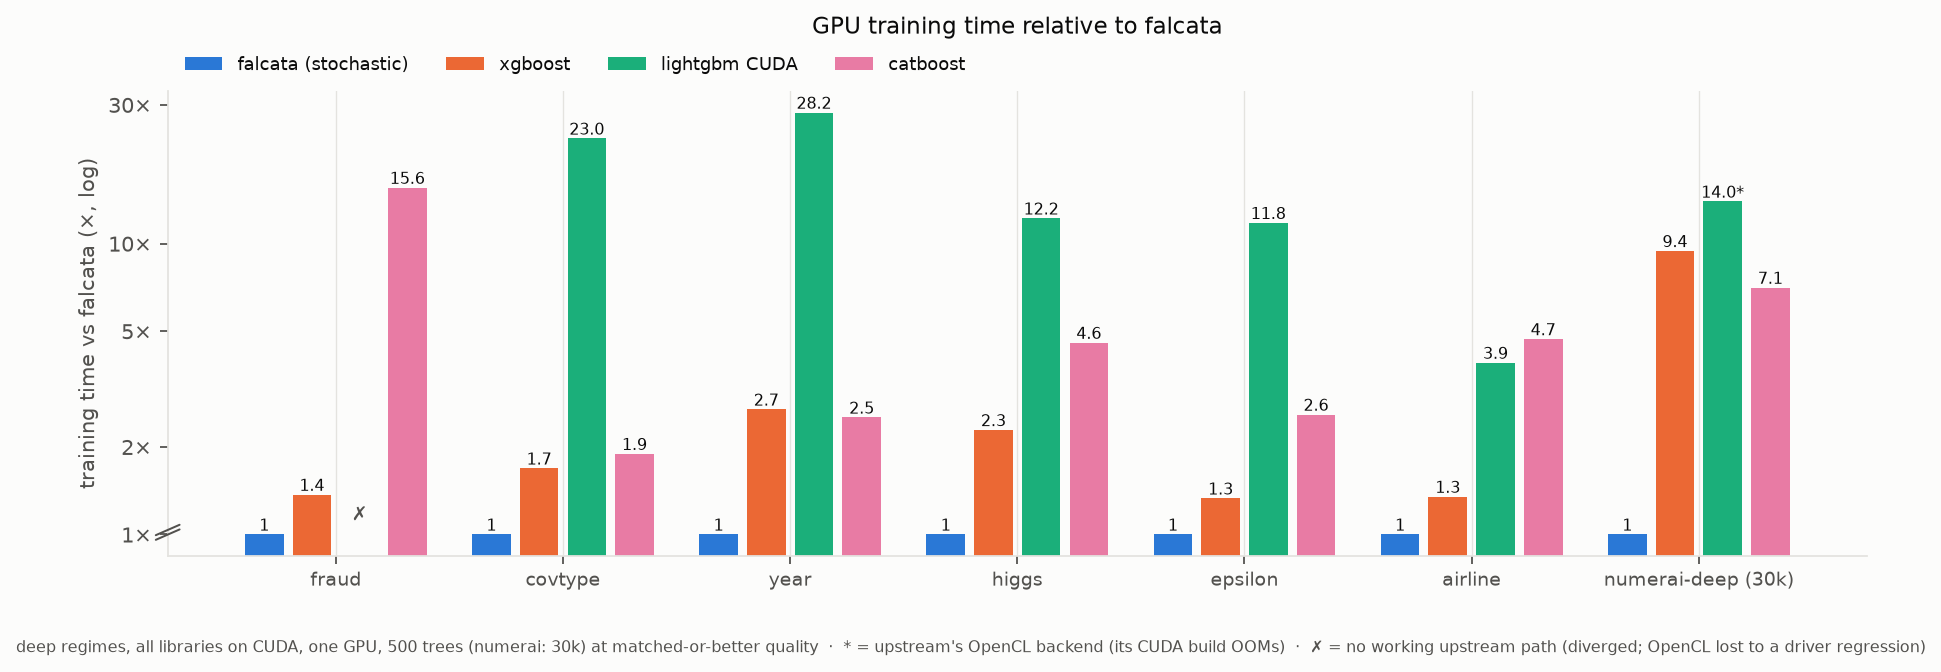
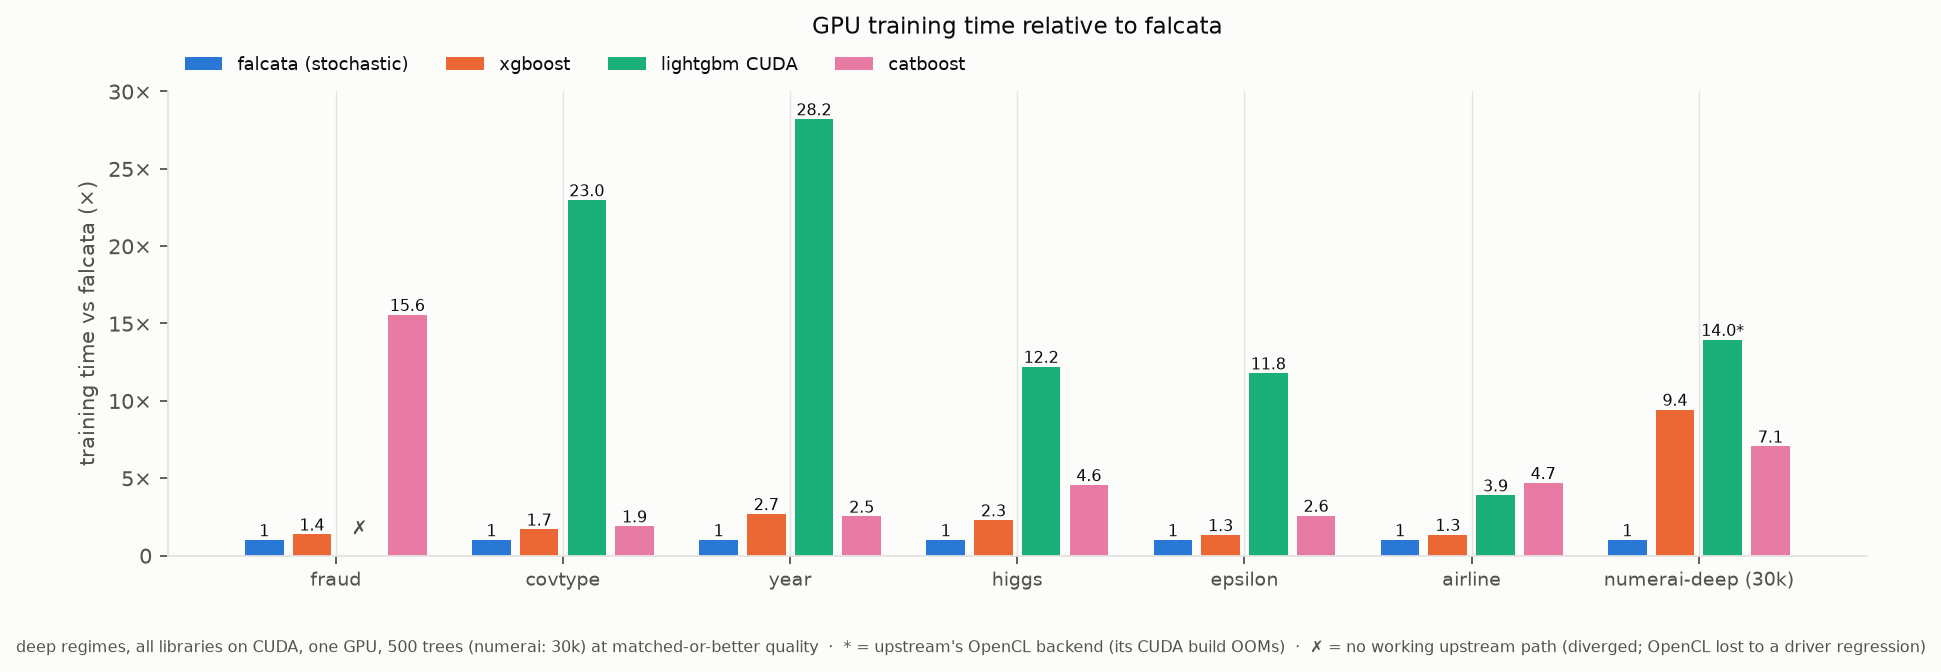
docs: scoreboard y-axis linear from zero
Proportional bar heights instead of the log ratio scale: a 28x bar now LOOKS
28x the baseline. The axis-break mark goes with it (nothing is broken), and
the ticks are plain multiples.

diff --git a/docs/perf-plots/generate.py b/docs/perf-plots/generate.py
@@ -303,12 +303,11 @@ def plot_cross_library():
                 ax.text(
                     xx, 1.08, "✗", ha="center", va="bottom", fontsize=9, color=TEXT2
                 )
-    ax.set_yscale("log")
-    mark_axis_break(ax, "y")
-    ax.set_yticks([1, 2, 5, 10, 30], ["1×", "2×", "5×", "10×", "30×"])
+    ax.set_ylim(bottom=0)
+    ax.set_yticks([0, 5, 10, 15, 20, 25, 30], ["0", "5×", "10×", "15×", "20×", "25×", "30×"])
     ax.minorticks_off()
     ax.set_xticks(list(x), [DS_LABEL.get(dr, dr[0]) for dr in DS_REGS], fontsize=9)
-    ax.set_ylabel("training time vs falcata (×, log)")
+    ax.set_ylabel("training time vs falcata (×)")
     ax.set_title("GPU training time relative to falcata", fontsize=TITLE_PT, pad=26)
     fig.text(
         0.5,
